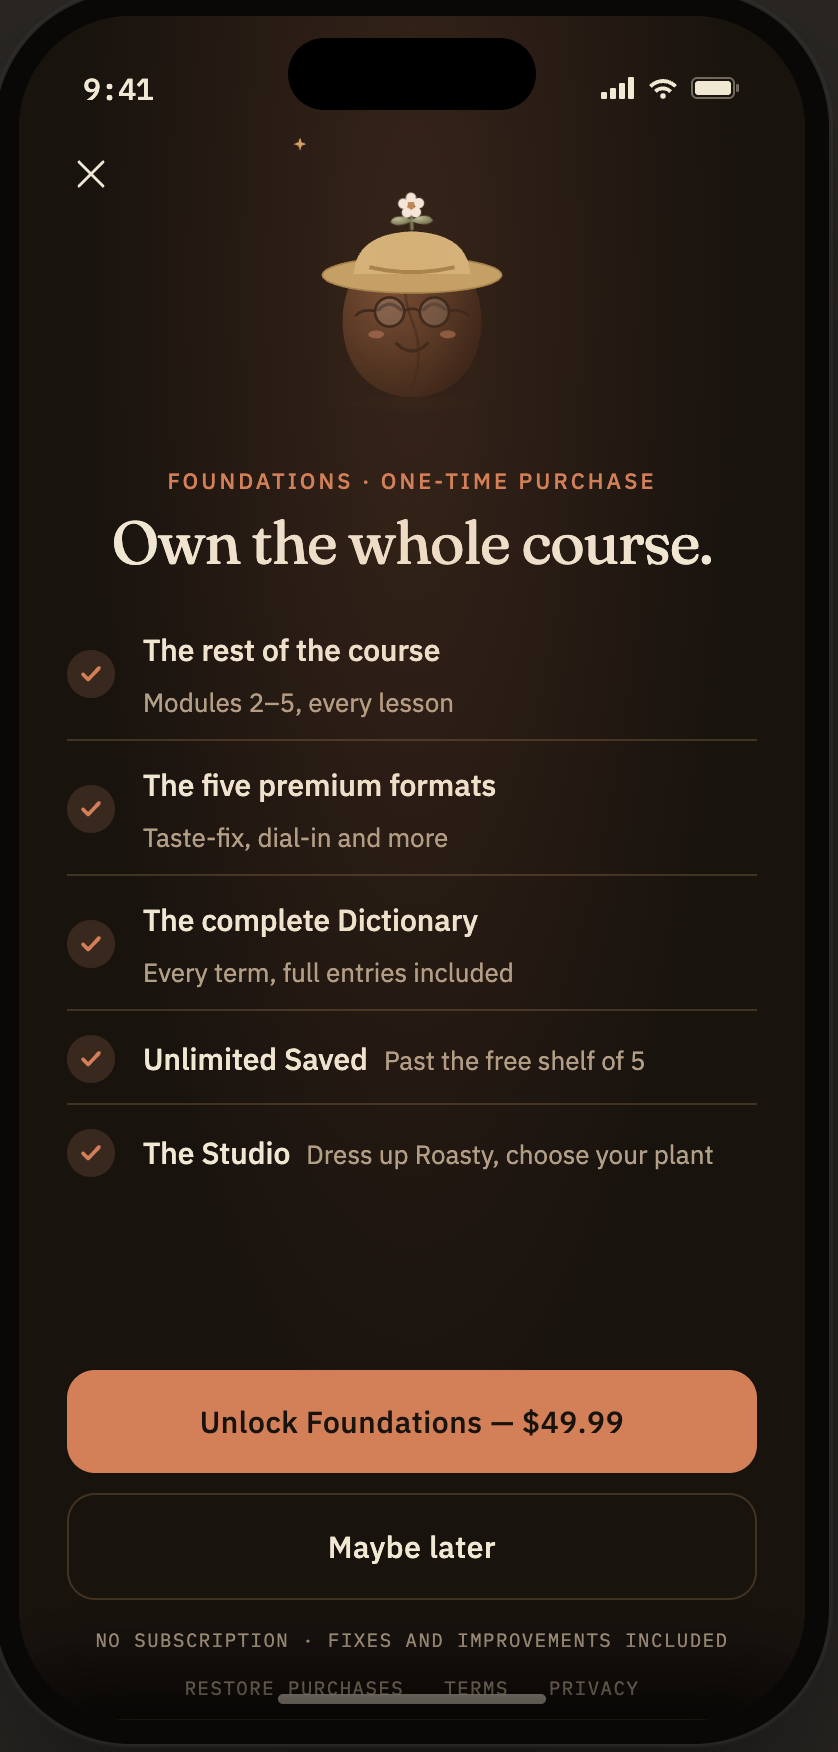
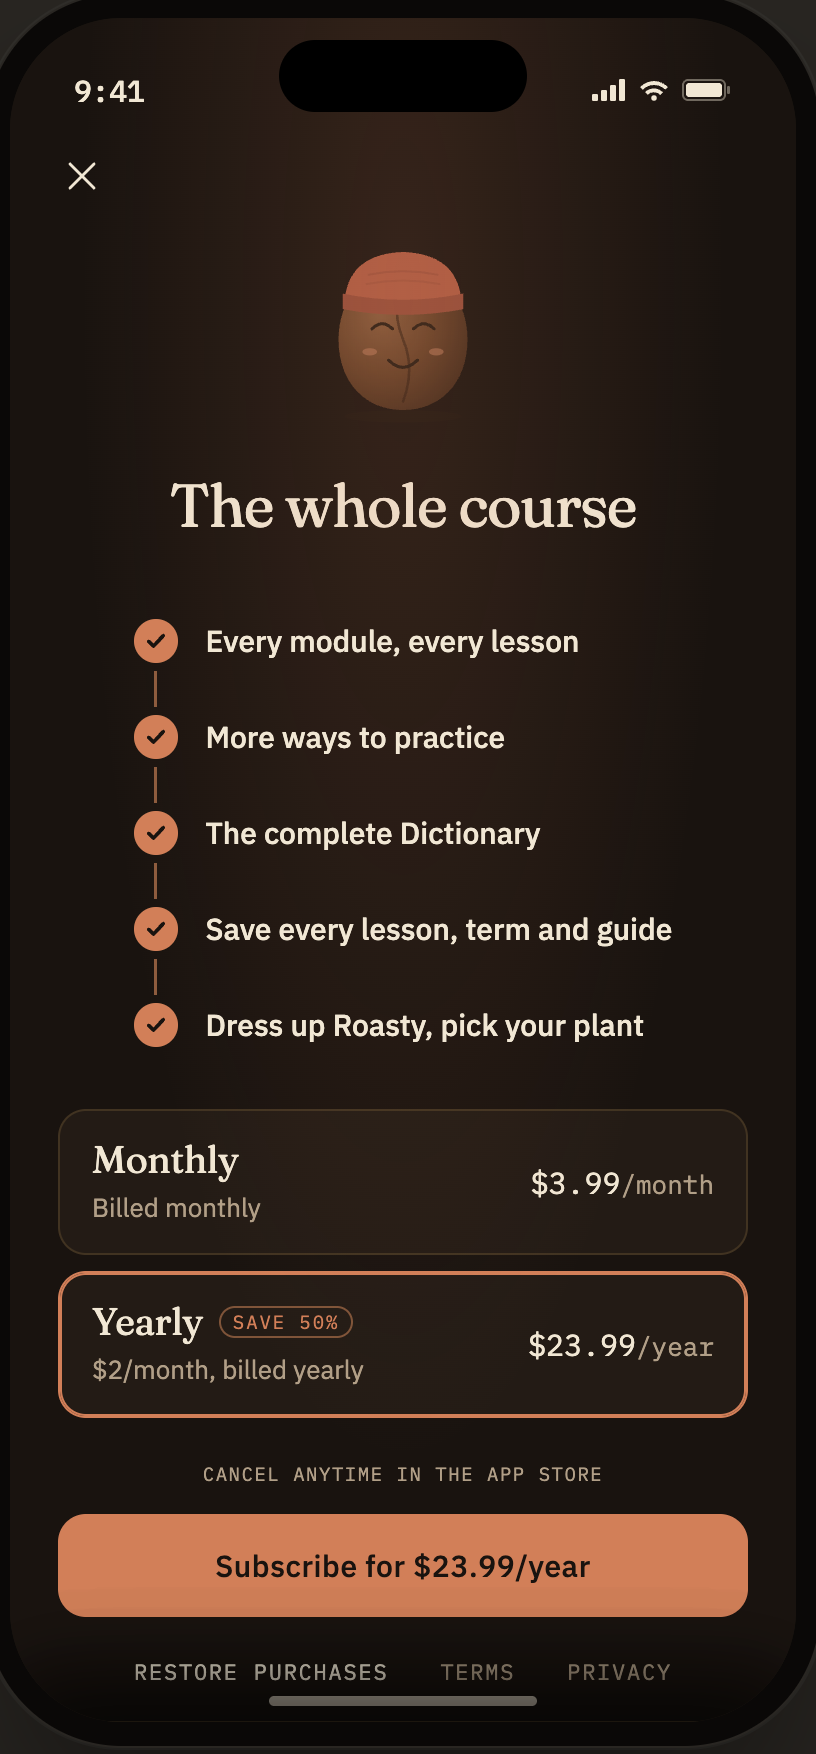
feat(mood): show Cupping screenshots in the light mood
Add the light screenshot set and refresh the dark Today and paywall
screenshots. Each mood now shows its own screenshots on the home and
press pages, and the press page offers a download per mood.

Both folders are complete, so the fallback that lent one mood's
screenshots to the other is removed. The screenshot test now checks
every mood's folder.

diff --git a/src/domains/site/screens.ts b/src/domains/site/screens.ts
@@ -13,29 +13,15 @@ export const SCREENS = [
 ] as const;
 export type ScreenId = (typeof SCREENS)[number];
 
-/**
- * The moods whose folder holds every screenshot. A mood left out shows
- * another mood's screenshots. Add `'cupping'` once `cupping/` has them all;
- * `screens.test.ts` checks each listed folder is complete.
- */
-export const SCREENSHOT_MOODS: readonly [Mood, ...Mood[]] = ['dark-roast'];
-
 /** Width over height of the phone silhouette the screenshots sit in. */
 export const SCREEN_ASPECT = '826 / 1750';
 
-/** The folder `mood` reads its screenshots from: its own, or the first complete one. */
-const shotMood = (mood: Mood): Mood =>
-  SCREENSHOT_MOODS.includes(mood) ? mood : SCREENSHOT_MOODS[0];
+export const screenSrc = (screen: ScreenId, mood: Mood) => `/images/screens/${mood}/${screen}.png`;
 
-export const screenSrc = (screen: ScreenId, mood: Mood) =>
-  `/images/screens/${shotMood(mood)}/${screen}.png`;
-
-/** A phone's image of `screen`: one per mood, or a single shared one while only one folder is complete. */
-export function screenShots(screen: ScreenId): { src: string; mood?: Mood }[] {
-  if (SCREENSHOT_MOODS.length < MOODS.length) return [{ src: screenSrc(screen, MOODS[0]) }];
-  return MOODS.map((mood) => ({ mood, src: screenSrc(screen, mood) }));
-}
+/** A phone's image of `screen`, one per mood. */
+export const screenShots = (screen: ScreenId): { src: string; mood: Mood }[] =>
+  MOODS.map((mood) => ({ mood, src: screenSrc(screen, mood) }));
 
 /** The file name a press download is saved as. */
-export const screenDownloadName = (screen: ScreenId, mood?: Mood) =>
-  mood ? `brewpath-${screen}-${mood}.png` : `brewpath-${screen}.png`;
+export const screenDownloadName = (screen: ScreenId, mood: Mood) =>
+  `brewpath-${screen}-${mood}.png`;

diff --git a/src/app/components/phone-shot/phone-shot.tsx b/src/app/components/phone-shot/phone-shot.tsx
@@ -31,7 +31,7 @@ export function PhoneShot({
   priority,
   riseOffset,
 }: PhoneShotProps) {
-  const shots = mood ? [{ src: screenSrc(screen, mood) }] : screenShots(screen);
+  const shots = mood ? [{ mood, src: screenSrc(screen, mood) }] : screenShots(screen);
 
   return (
     <div
@@ -52,7 +52,7 @@ export function PhoneShot({
           fill
           sizes={sizes}
           priority={priority}
-          className={cn('scale-[1.06] object-cover', shot.mood && MOOD_ONLY[shot.mood])}
+          className={cn('scale-[1.06] object-cover', !mood && MOOD_ONLY[shot.mood])}
         />
       ))}
     </div>

diff --git a/src/domains/site/screens.test.ts b/src/domains/site/screens.test.ts
@@ -3,9 +3,10 @@ import { join } from 'node:path';
 
 import { describe, expect, it } from 'vitest';
 
-import { SCREENS, SCREENSHOT_MOODS, screenSrc } from './screens';
+import { MOODS } from './mood';
+import { SCREENS, screenSrc } from './screens';
 
-describe.each(SCREENSHOT_MOODS)('the %s screenshots', (mood) => {
+describe.each(MOODS)('the %s screenshots', (mood) => {
   it.each(SCREENS)('include %s', (screen) => {
     expect(existsSync(join('public', screenSrc(screen, mood)))).toBe(true);
   });

diff --git a/src/app/[locale]/press/page.tsx b/src/app/[locale]/press/page.tsx
@@ -116,7 +116,7 @@ export default async function PressPage({ params }: LocaleParams) {
                   download={screenDownloadName(screen, mood)}
                   className={cn(
                     'flex flex-col gap-2.5 text-ink hover:no-underline',
-                    mood && MOOD_ONLY[mood],
+                    MOOD_ONLY[mood],
                   )}
                 >
                   <PhoneShot screen={screen} mood={mood} alt="" sizes="200px" />

diff --git a/README.md b/README.md
@@ -60,12 +60,11 @@ strings have a key English lacks, or lack one English has.
 `oneTime`, `subscription` or `hybrid`. The pricing section, FAQ, terms, support
 steps and press facts all follow it. Plan prices are in `PLAN_PRICES` next to it.
 
-## Light screenshots
+## Screenshots
 
-The screenshots are Dark Roast only, so both moods show them. To add the
-Cupping set, put every screen in `public/images/screens/cupping/` under the
-same file names, then add `'cupping'` to `SCREENSHOT_MOODS` in
-`src/domains/site/screens.ts`.
+Each mood shows its own screenshots. Both folders in `public/images/screens/`
+hold every screen in `SCREENS` (`src/domains/site/screens.ts`) under the same
+file names. `pnpm test` fails if a folder misses one.
 
 ## Environment
 
